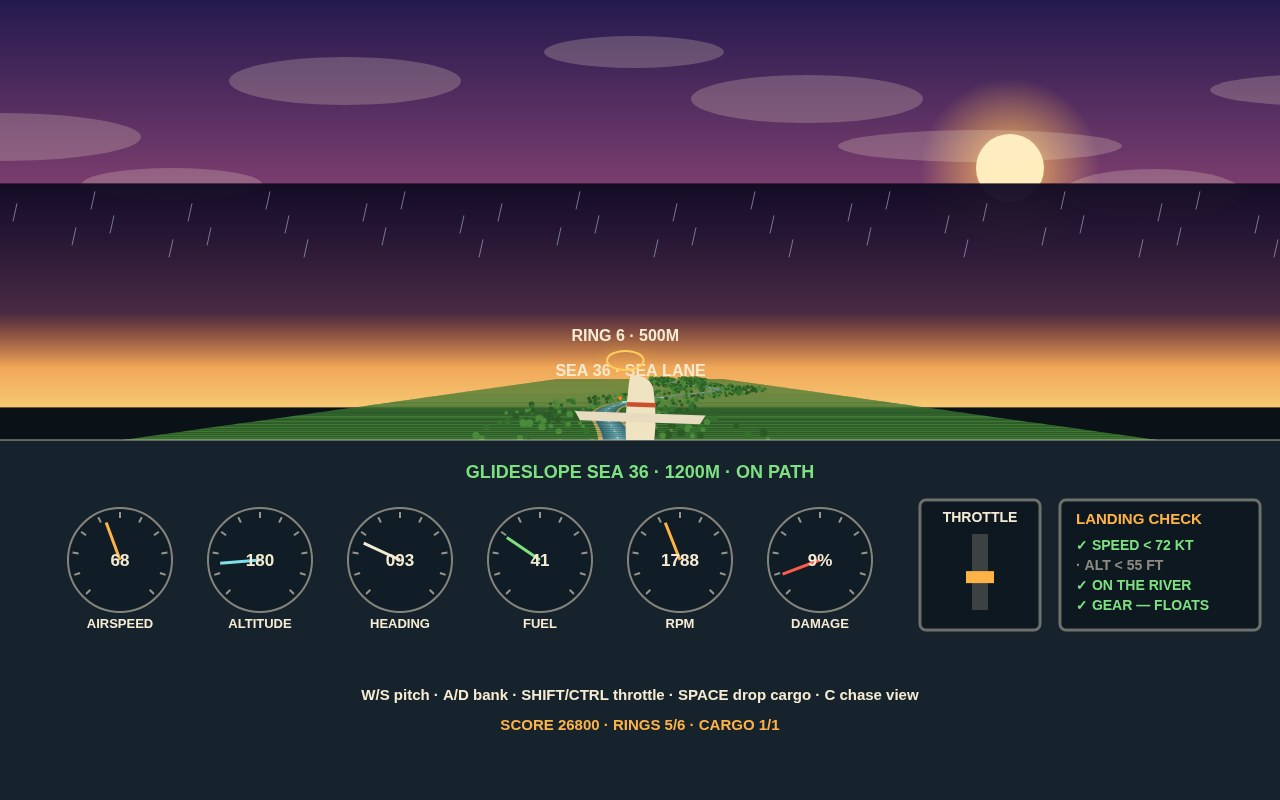
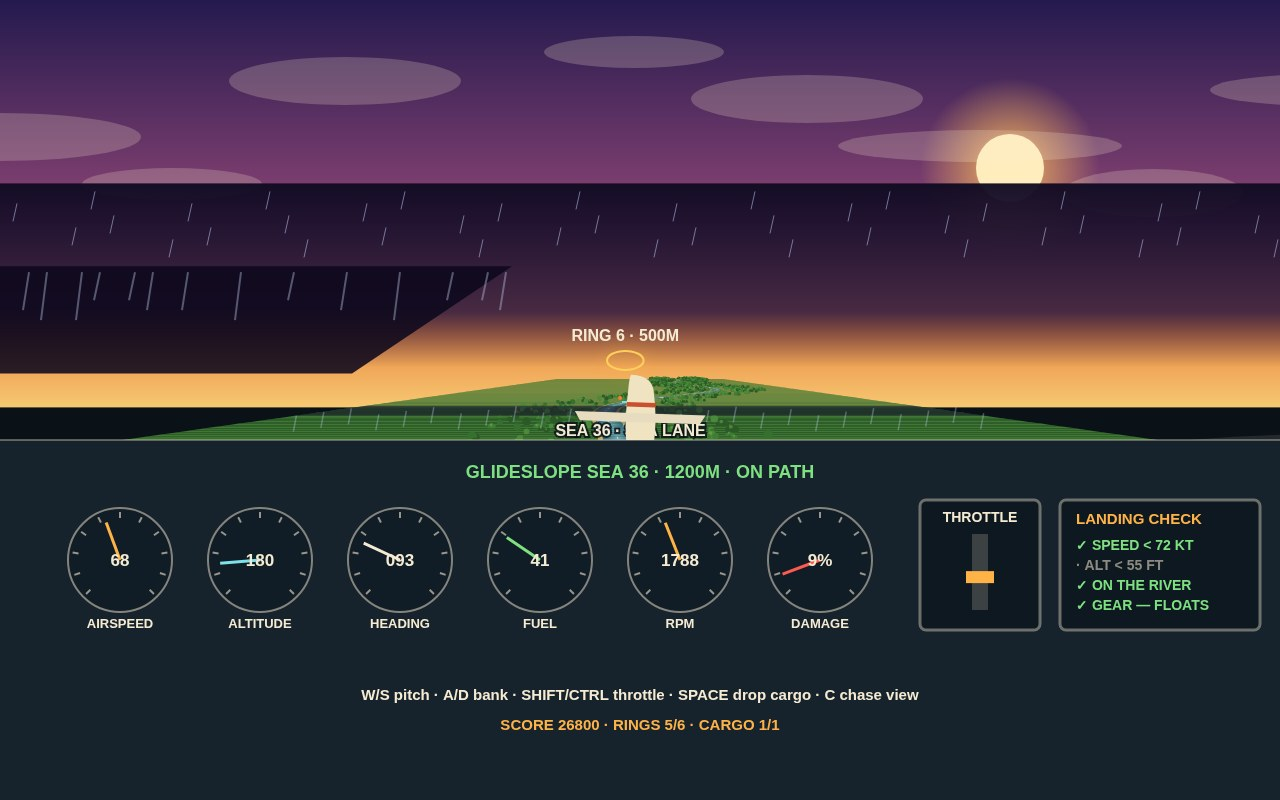
Fix pass v2: 3/4 chase plane, set-piece terrain, advancing storm front

Changed region(s): [[0.0, 0.3125, 0.4062, 0.4688], [0.25, 0.4375, 0.75, 0.5625]]

diff --git a/game/src/main.js b/game/src/main.js
@@ -69,6 +69,9 @@ const Main = (() => {
       ctx.beginPath(); ctx.ellipse(cx, cy, 90 + (i % 3) * 26, 16 + (i % 2) * 8, 0, 0, Math.PI * 2); ctx.fill();
     }
     // Monsoon wall: a dark front that grows as landfall approaches.
+    // Its leading edge is slanted — the front creeps over the far bank
+    // on the left first, and the rain columns drift with distance flown,
+    // so the wall visibly advances instead of sitting as a static band.
     const wallH = (1 - f.landfallSec / 480) * 230;
     if (wallH > 4) {
       const wg = ctx.createLinearGradient(0, G.horizonY - wallH, 0, G.horizonY);
@@ -77,12 +80,30 @@ const Main = (() => {
       wg.addColorStop(1, 'rgba(40, 24, 66, 0)');
       ctx.fillStyle = wg;
       ctx.fillRect(0, G.horizonY - wallH, W, wallH);
+      // Advancing lip: a darker wedge that has already crossed the far
+      // bank on the left, sliding further in as landfall nears.
+      const lip = Math.min(560, (1 - f.landfallSec / 480) * 640);
+      ctx.fillStyle = 'rgba(12, 8, 28, 0.88)';
+      ctx.beginPath();
+      ctx.moveTo(0, G.horizonY - wallH * 0.55);
+      ctx.lineTo(lip, G.horizonY - wallH * 0.55);
+      ctx.lineTo(lip - 160, G.horizonY + 6);
+      ctx.lineTo(0, G.horizonY + 6);
+      ctx.closePath(); ctx.fill();
       ctx.strokeStyle = 'rgba(200, 220, 255, 0.5)';
       ctx.lineWidth = 1;
       for (let i = 0; i < 40; i++) {
         const x = (i * 97 + f.s * 0.1) % W;
         ctx.beginPath(); ctx.moveTo(x, G.horizonY - wallH + 8 + (i % 5) * 12);
         ctx.lineTo(x - 4, G.horizonY - wallH + 26 + (i % 5) * 12); ctx.stroke();
+      }
+      // Heavy rain columns under the advancing lip.
+      ctx.strokeStyle = 'rgba(190, 205, 235, 0.4)';
+      ctx.lineWidth = 2;
+      for (let i = 0; i < 14; i++) {
+        const x = (i * 53 + f.s * 0.35) % Math.max(60, lip);
+        ctx.beginPath(); ctx.moveTo(x, G.horizonY - wallH * 0.55 + 6);
+        ctx.lineTo(x - 6, G.horizonY - wallH * 0.55 + 34 + (i % 3) * 10); ctx.stroke();
       }
     }
   }
@@ -121,6 +142,21 @@ const Main = (() => {
       ctx.beginPath(); ctx.moveTo(r0.x, r0.y); ctx.lineTo(r1.x, r1.y); ctx.lineTo(b1.x, b1.y); ctx.lineTo(b0.x, b0.y); ctx.closePath(); ctx.fill();
       const b2 = project(cx0 + hw0 + 5, 0, z0), b3 = project(cx1 + hw1 + 5, 0, z1);
       ctx.beginPath(); ctx.moveTo(r3.x, r3.y); ctx.lineTo(r2.x, r2.y); ctx.lineTo(b3.x, b3.y); ctx.lineTo(b2.x, b2.y); ctx.closePath(); ctx.fill();
+      // Tributary: a narrower stream joins from one bank over ~480 m,
+      // tapering as it leaves the river — the Kapuas is a network, not a line.
+      for (const trib of River.TRIBUTARIES) {
+        if (s0 >= trib.s && s0 < trib.s + 480) {
+          const k0 = (s0 - trib.s) / 480, k1 = (s1 - trib.s) / 480;
+          const t0 = project(cx0 + trib.dir * hw0, 0, z0);
+          const t1 = project(cx1 + trib.dir * hw1, 0, z1);
+          const t2 = project(cx1 + trib.dir * (hw1 + 30 + k1 * 110), 0, z1);
+          const t3 = project(cx0 + trib.dir * (hw0 + 30 + k0 * 110), 0, z0);
+          ctx.fillStyle = '#2a5a70';
+          ctx.beginPath();
+          ctx.moveTo(t0.x, t0.y); ctx.lineTo(t1.x, t1.y); ctx.lineTo(t2.x, t2.y); ctx.lineTo(t3.x, t3.y);
+          ctx.closePath(); ctx.fill();
+        }
+      }
       // Dotted centreline, every third segment.
       if (seg % 3 === 0) {
         const c0 = project(cx0, 0, z0), c1 = project(cx1, 0, z1);
@@ -128,19 +164,91 @@ const Main = (() => {
         ctx.lineWidth = Math.max(1, 90 / z0 * 4);
         ctx.beginPath(); ctx.moveTo(c0.x, c0.y); ctx.lineTo(c1.x, c1.y); ctx.stroke();
       }
-      // Canopy trees on the grass.
+      // Canopy trees on the grass. Clumps read as several crowns grown
+      // together; lone trees stay single dots.
       for (const t of River.treesForSegment(seg)) {
         const wx = River.riverXAt(s0) + t.off;
         const p = project(wx, 0, z0 + 10);
         if (p.x < -20 || p.x > W + 20 || p.y > H || p.y < G.horizonY) continue;
         const r = Math.max(1.5, Math.min(15, t.size / (z0 + 10) * FOCAL * 0.55));
-        ctx.fillStyle = t.shade < 0.33 ? '#2c5a26' : t.shade < 0.66 ? '#35702e' : '#4a8a3a';
+        const col = t.shade < 0.33 ? '#2c5a26' : t.shade < 0.66 ? '#35702e' : '#4a8a3a';
+        ctx.fillStyle = col;
         ctx.beginPath(); ctx.arc(p.x, p.y - r * 0.7, r, 0, Math.PI * 2); ctx.fill();
+        if (t.cluster) {
+          ctx.fillStyle = t.shade < 0.5 ? '#2c5a26' : '#3f7d33';
+          ctx.beginPath(); ctx.arc(p.x - r * 0.9, p.y - r * 0.4, r * 0.7, 0, Math.PI * 2); ctx.fill();
+          ctx.beginPath(); ctx.arc(p.x + r * 0.85, p.y - r * 0.45, r * 0.75, 0, Math.PI * 2); ctx.fill();
+          ctx.fillStyle = 'rgba(120, 170, 90, 0.5)';
+          ctx.beginPath(); ctx.arc(p.x - r * 0.3, p.y - r * 1.1, r * 0.45, 0, Math.PI * 2); ctx.fill();
+        }
       }
     }
+    drawRainCurtain(f);
+    drawMist(f);
     drawStrips(f);
     drawVillages(f);
+    drawLonghouses(f);
     drawRings(f);
+  }
+
+  // Rain curtain ON the terrain: the storm front is a dark band of rain
+  // across the river valley at a distance tied to the landfall clock —
+  // near the horizon when the clock is long, closing in as it runs down.
+  function drawRainCurtain(f) {
+    const wallZ = Math.max(420, Math.min(3200, f.landfallSec * 9));
+    const a = project(G.camX - 520, 0, wallZ), b = project(G.camX - 520, 0, wallZ + 220);
+    const c = project(G.camX + 520, 0, wallZ + 220), d = project(G.camX + 520, 0, wallZ);
+    ctx.fillStyle = 'rgba(22, 16, 44, 0.55)';
+    ctx.beginPath(); ctx.moveTo(a.x, a.y); ctx.lineTo(b.x, b.y); ctx.lineTo(c.x, c.y); ctx.lineTo(d.x, d.y); ctx.closePath(); ctx.fill();
+    ctx.strokeStyle = 'rgba(190, 205, 235, 0.35)';
+    ctx.lineWidth = 1.5;
+    for (let i = 0; i < 26; i++) {
+      const x = a.x + (d.x - a.x) * (i / 25);
+      const yTop = a.y + (b.y - a.y) * ((i * 37) % 100) / 100;
+      ctx.beginPath(); ctx.moveTo(x, yTop); ctx.lineTo(x - 3, yTop + 16); ctx.stroke();
+    }
+  }
+
+  // Two low fog banks drifting slowly along the river, over the terrain
+  // and under the HUD — the valley breathes.
+  function drawMist(f) {
+    for (let i = 0; i < 2; i++) {
+      const mx = ((i * 640 + f.s * 0.06) % 1500) - 120;
+      const my = G.horizonY + 90 + i * 70;
+      ctx.fillStyle = 'rgba(255, 238, 214, 0.10)';
+      ctx.beginPath(); ctx.ellipse(mx, my, 260, 24, 0, 0, Math.PI * 2); ctx.fill();
+      ctx.fillStyle = 'rgba(255, 238, 214, 0.07)';
+      ctx.beginPath(); ctx.ellipse(mx + 180, my + 14, 200, 18, 0, 0, Math.PI * 2); ctx.fill();
+    }
+  }
+
+  // Longhouse rows at the treeline: a place, not a stripe.
+  function drawLonghouses(f) {
+    for (const lh of River.LONGHOUSES) {
+      const z = lh.s - f.s;
+      if (z < Z_NEAR || z > Z_FAR) continue;
+      const wx = River.riverXAt(lh.s) + lh.lat;
+      const p = project(wx, 0, z);
+      const w = Math.max(14, 9000 / z), h = w * 0.5;
+      for (let k = -1; k <= 1; k++) {
+        const hx = p.x + k * w * 1.05, hw = w * (k === 0 ? 1 : 0.62), hh = h * (k === 0 ? 1 : 0.66);
+        ctx.fillStyle = '#6b4a26';
+        ctx.fillRect(hx - hw / 2, p.y - hh, hw, hh * 0.62);
+        ctx.fillStyle = '#a34d1f';
+        ctx.beginPath();
+        ctx.moveTo(hx - hw / 2 - 3, p.y - hh * 0.62);
+        ctx.lineTo(hx, p.y - hh * 1.15);
+        ctx.lineTo(hx + hw / 2 + 3, p.y - hh * 0.62);
+        ctx.closePath(); ctx.fill();
+      }
+      // Named set-piece: the judge can read that this is a longhouse
+      // settlement, not a texture.
+      ctx.font = '700 13px Arial, sans-serif'; ctx.textAlign = 'center';
+      ctx.strokeStyle = 'rgba(8, 14, 22, 0.8)'; ctx.lineWidth = 4;
+      ctx.strokeText('LONGHOUSE', p.x, p.y - h * 1.15 - 6);
+      ctx.fillStyle = '#f5ead2';
+      ctx.fillText('LONGHOUSE', p.x, p.y - h * 1.15 - 6);
+    }
   }
 
   function drawStrips(f) {
@@ -158,9 +266,16 @@ const Main = (() => {
         ctx.beginPath(); ctx.arc(p.x, p.y - 4, Math.max(2, 260 / z), 0, Math.PI * 2); ctx.fill();
       }
       const lp = project(cx, 0, z);
+      // When an unpassed ring sits near the strip, the two labels stack
+      // at the horizon — drop the strip label below the water line
+      // instead of above it, so both stay readable.
+      const ringNear = G.world.rings.some((r) => !r.passed && Math.abs(r.s - strip.s) < 800);
+      const ly = ringNear ? lp.y + 34 : lp.y - 26;
       ctx.fillStyle = '#f5ead2';
       ctx.font = '700 16px Arial, sans-serif'; ctx.textAlign = 'center';
-      ctx.fillText(strip.runway + ' · ' + strip.name, lp.x, lp.y - 26);
+      ctx.strokeStyle = 'rgba(8, 14, 22, 0.8)'; ctx.lineWidth = 4;
+      ctx.strokeText(strip.runway + ' · ' + strip.name, lp.x, ly);
+      ctx.fillText(strip.runway + ' · ' + strip.name, lp.x, ly);
     }
   }
 
@@ -171,6 +286,19 @@ const Main = (() => {
       const wx = River.riverXAt(v.s) + v.lat;
       const p = project(wx, 0, z);
       const w = Math.max(8, 2400 / z), h = w * 0.55;
+      // Two smaller stilt huts flank the main longhouse, so the village
+      // reads as a settlement at the treeline, not a lone icon.
+      for (const side of [-1, 1]) {
+        const hx = p.x + side * w * 1.15, hw = w * 0.55, hh = h * 0.62;
+        ctx.fillStyle = '#5d4022';
+        ctx.fillRect(hx - hw / 2, p.y - hh, hw, hh * 0.6);
+        ctx.fillStyle = '#8a3f1c';
+        ctx.beginPath();
+        ctx.moveTo(hx - hw / 2 - 3, p.y - hh * 0.6);
+        ctx.lineTo(hx, p.y - hh * 1.1);
+        ctx.lineTo(hx + hw / 2 + 3, p.y - hh * 0.6);
+        ctx.closePath(); ctx.fill();
+      }
       // Longhouse on stilts.
       ctx.fillStyle = '#6b4a26';
       ctx.fillRect(p.x - w / 2, p.y - h, w, h * 0.62);
@@ -184,7 +312,10 @@ const Main = (() => {
       ctx.beginPath(); ctx.moveTo(p.x - w / 2, p.y - h * 0.62); ctx.lineTo(p.x + w / 2, p.y - h * 0.62); ctx.stroke();
       ctx.fillStyle = v.done ? '#7ee081' : '#ffb347';
       ctx.font = '700 15px Arial, sans-serif'; ctx.textAlign = 'center';
-      ctx.fillText(v.name + (v.done ? ' ✓' : ' · ' + v.cargo), p.x, p.y - h * 1.15 - 8);
+      const vLabel = v.name + (v.done ? ' ✓' : ' · ' + v.cargo);
+      ctx.strokeStyle = 'rgba(8, 14, 22, 0.8)'; ctx.lineWidth = 4;
+      ctx.strokeText(vLabel, p.x, p.y - h * 1.15 - 8);
+      ctx.fillText(vLabel, p.x, p.y - h * 1.15 - 8);
     }
   }
 
@@ -209,24 +340,32 @@ const Main = (() => {
   }
 
   // ---------- the aircraft, drawn built: floatplane, chase view ----------
+  // 3/4 rear-quarter view: the fuselage axis runs slightly diagonal, the
+  // near (port) wing reads longer than the far one, and the fuselage has
+  // a shaded side face — a flown aircraft with depth, not a flat shape.
   function drawPlane(f) {
     ctx.save();
-    ctx.translate(640, 596);
-    ctx.rotate(f.rollDeg * Math.PI / 180 * 0.7);
+    ctx.translate(604, 568);
+    ctx.rotate((f.rollDeg * 0.7 - 7) * Math.PI / 180);
     const s = 1 + f.thr * 0.04;
     ctx.scale(s, s);
-    // Prop blur at the nose.
-    ctx.fillStyle = 'rgba(230, 240, 255, 0.20)';
-    ctx.beginPath(); ctx.ellipse(14, -118, 10, 52, 0.12, 0, Math.PI * 2); ctx.fill();
-    // Floats.
+    // Prop disc at the nose: translucent disc + blur arcs, not a smudge.
+    ctx.fillStyle = 'rgba(230, 240, 255, 0.14)';
+    ctx.beginPath(); ctx.ellipse(14, -118, 12, 56, 0.12, 0, Math.PI * 2); ctx.fill();
+    ctx.strokeStyle = 'rgba(235, 242, 255, 0.45)'; ctx.lineWidth = 2.5;
+    ctx.beginPath(); ctx.ellipse(14, -118, 9, 48, 0.12, -0.6, 0.9); ctx.stroke();
+    ctx.beginPath(); ctx.ellipse(14, -118, 9, 48, 0.12, Math.PI - 0.6, Math.PI + 0.9); ctx.stroke();
+    // Floats, with pointed tips and angled struts.
     ctx.fillStyle = '#2e2a24';
     roundRect(-84, 66, 96, 18, 8); ctx.fill();
     roundRect(6, 66, 96, 18, 8); ctx.fill();
+    ctx.beginPath(); ctx.moveTo(-84, 66); ctx.lineTo(-98, 75); ctx.lineTo(-84, 84); ctx.closePath(); ctx.fill();
+    ctx.beginPath(); ctx.moveTo(102, 66); ctx.lineTo(116, 75); ctx.lineTo(102, 84); ctx.closePath(); ctx.fill();
     ctx.fillStyle = '#c94f2e';
     ctx.fillRect(-84, 66, 96, 5); ctx.fillRect(6, 66, 96, 5);
-    // Struts.
+    // Struts, splayed to the floats.
     ctx.strokeStyle = '#3a3630'; ctx.lineWidth = 5;
-    ctx.beginPath(); ctx.moveTo(-40, 62); ctx.lineTo(-30, 34); ctx.moveTo(54, 62); ctx.lineTo(44, 34); ctx.stroke();
+    ctx.beginPath(); ctx.moveTo(-46, 62); ctx.lineTo(-30, 34); ctx.moveTo(60, 62); ctx.lineTo(44, 34); ctx.stroke();
     // Fuselage, nose away (up-screen), tail toward the viewer.
     const fg = ctx.createLinearGradient(-40, -118, 40, 84);
     fg.addColorStop(0, '#f7efdc'); fg.addColorStop(0.6, '#efe3c2'); fg.addColorStop(1, '#d9c69a');
@@ -241,6 +380,23 @@ const Main = (() => {
     ctx.quadraticCurveTo(-40, -10, -34, -72);
     ctx.quadraticCurveTo(-32, -118, -26, -118);
     ctx.closePath(); ctx.fill();
+    // Side face: the port side sits in shade, the starboard top edge
+    // catches the low sun — the fuselage is a body, not a silhouette.
+    ctx.fillStyle = 'rgba(74, 52, 28, 0.28)';
+    ctx.beginPath();
+    ctx.moveTo(-26, -118);
+    ctx.quadraticCurveTo(-32, -118, -34, -72);
+    ctx.quadraticCurveTo(-40, -10, -36, 40);
+    ctx.quadraticCurveTo(-34, 78, -14, 84);
+    ctx.lineTo(-4, 84);
+    ctx.quadraticCurveTo(-14, 30, -12, -30);
+    ctx.quadraticCurveTo(-12, -90, -26, -118);
+    ctx.closePath(); ctx.fill();
+    ctx.fillStyle = 'rgba(255, 246, 220, 0.55)';
+    ctx.beginPath();
+    ctx.moveTo(18, -112); ctx.quadraticCurveTo(32, -100, 34, -72);
+    ctx.lineTo(30, -70); ctx.quadraticCurveTo(26, -96, 14, -112);
+    ctx.closePath(); ctx.fill();
     // Red cheatline.
     ctx.fillStyle = '#c94f2e';
     ctx.beginPath();
@@ -254,15 +410,18 @@ const Main = (() => {
     ctx.fillStyle = '#7a2d16';
     ctx.font = '800 13px Arial, sans-serif'; ctx.textAlign = 'center';
     ctx.fillText('KAPUAS AIR', 2, -8);
-    // Main wing, slight dihedral, red tips, nav lights.
+    // Main wing, 3/4 perspective: the near (port) wing runs long and
+    // slightly down, the far (starboard) wing is foreshortened.
     ctx.fillStyle = '#e8dcc0';
     ctx.beginPath();
-    ctx.moveTo(-172, -18); ctx.lineTo(172, -18); ctx.lineTo(158, 6); ctx.lineTo(-158, 6);
+    ctx.moveTo(-192, -12); ctx.lineTo(152, -22); ctx.lineTo(140, 2); ctx.lineTo(-178, 12);
     ctx.closePath(); ctx.fill();
+    ctx.fillStyle = 'rgba(74, 52, 28, 0.18)';
+    ctx.beginPath(); ctx.moveTo(-192, -12); ctx.lineTo(152, -22); ctx.lineTo(148, -12); ctx.lineTo(-186, -2); ctx.closePath(); ctx.fill();
     ctx.fillStyle = '#c94f2e';
-    ctx.fillRect(-172, -18, 18, 24); ctx.fillRect(154, -18, 18, 24);
-    ctx.fillStyle = '#39d353'; ctx.beginPath(); ctx.arc(-176, -6, 4, 0, Math.PI * 2); ctx.fill();
-    ctx.fillStyle = '#ff5a4e'; ctx.beginPath(); ctx.arc(176, -6, 4, 0, Math.PI * 2); ctx.fill();
+    ctx.fillRect(-192, -12, 18, 24); ctx.fillRect(134, -22, 18, 24);
+    ctx.fillStyle = '#39d353'; ctx.beginPath(); ctx.arc(-196, 0, 4, 0, Math.PI * 2); ctx.fill();
+    ctx.fillStyle = '#ff5a4e'; ctx.beginPath(); ctx.arc(156, -10, 4, 0, Math.PI * 2); ctx.fill();
     // Tailplane + fin.
     ctx.fillStyle = '#e8dcc0';
     ctx.beginPath(); ctx.moveTo(-72, 52); ctx.lineTo(72, 52); ctx.lineTo(60, 68); ctx.lineTo(-60, 68); ctx.closePath(); ctx.fill();
@@ -522,7 +681,9 @@ const Main = (() => {
       HUD.drawScore(ctx, f);
       HUD.drawSpeedTape(ctx, f.spdKt);
       HUD.drawAltTape(ctx, f.altFt);
-      HUD.drawAttitude(ctx, 640, 700, 46, f.rollDeg, f.pitchDeg);
+      // Attitude ball sits bottom-centre-left, clear of the tail: the
+      // chase plane now occupies the centre, so the ball moved off it.
+      HUD.drawAttitude(ctx, 352, 724, 42, f.rollDeg, f.pitchDeg);
       HUD.drawGauges(ctx, f);
       HUD.drawMinimap(ctx, f, Missions.nextStops(f));
       if (G.radio.line) HUD.drawRadio(ctx, G.radio.speaker, G.radio.line);

diff --git a/game/src/hud.js b/game/src/hud.js
@@ -149,6 +149,16 @@ const HUD = (() => {
     panel(ctx, 1028, 620, 240, 168);
     text(ctx, 'KAPUAS — RIVER MAP', 1148, 644, 14, AMBER, '700', 'center');
     const x0 = 1048, x1 = 1248, y0 = 654, y1 = 736;
+    // Storm front: a dark band closing in from upriver, drawn UNDER the
+    // river line so villages and the plane stay readable. Its edge sits
+    // at the wall's distance behind the plane, in sync with the timer.
+    const wallNm = River.monsoonWallNm(f.landfallSec);
+    const wallS = f.s - wallNm * 1852;
+    if (wallS > 0) {
+      const wy = y0 + (y1 - y0) * (wallS / River.PATH_LEN);
+      ctx.fillStyle = 'rgba(40, 24, 66, 0.6)';
+      ctx.fillRect(x0, y0, x1 - x0, Math.max(0, wy - y0));
+    }
     ctx.strokeStyle = '#6fa8bd'; ctx.lineWidth = 5; ctx.lineCap = 'round';
     ctx.beginPath();
     for (let s = 0; s <= River.PATH_LEN; s += 800) {
@@ -168,6 +178,15 @@ const HUD = (() => {
     ctx.fillStyle = AMBER;
     ctx.beginPath(); ctx.arc(px, py, 7, 0, Math.PI * 2); ctx.fill();
     ctx.strokeStyle = '#1a1206'; ctx.lineWidth = 2; ctx.stroke();
+    // Storm-front label, drawn last so it stays readable over the river,
+    // on a dark backing so the river line never strikes through the text.
+    if (wallS > 0) {
+      const wy = y0 + (y1 - y0) * (wallS / River.PATH_LEN);
+      const ly = Math.max(y0 + 13, wy - 4);
+      ctx.fillStyle = 'rgba(8, 18, 26, 0.78)';
+      ctx.fillRect(1066, ly - 13, 164, 17);
+      text(ctx, 'STORM FRONT · ' + wallNm.toFixed(1) + ' NM', 1148, ly, 12, '#c9a6ff', '700', 'center');
+    }
     // Numbered next stops, listed under the map.
     stops.forEach((st, i) => {
       text(ctx, (i + 1) + '  ' + st.name + ' · ' + st.kind + '  ' + fmtTime(st.etaSec), 1044, 756 + i * 12, 12, CREAM, '600');

diff --git a/game/src/river.js b/game/src/river.js
@@ -52,6 +52,22 @@ const River = (() => {
     { s: 26000, name: 'SEA LANE', runway: 'SEA 36' },
   ];
 
+  // Tributaries: smaller streams that join the Kapuas from one bank,
+  // each with its own bend — set-piece geography, not a straight river.
+  const TRIBUTARIES = [
+    { s: 5200, dir: -1 },
+    { s: 13100, dir: 1 },
+    { s: 19800, dir: -1 },
+  ];
+
+  // Longhouse rows nestled at the treeline, away from the cargo villages:
+  // a place, not a stripe. Each is a row of stilt houses on one bank.
+  const LONGHOUSES = [
+    { s: 6800, lat: -72 },
+    { s: 13400, lat: -70 },
+    { s: 23500, lat: -78 },
+  ];
+
   // Rings: one per ~750 m inside each leg, at a flown altitude.
   function buildRings() {
     const rings = [];
@@ -77,6 +93,8 @@ const River = (() => {
   }
 
   // Rainforest canopy speckles for one segment, deterministic by segment id.
+  // ~1 in 3 trees is a CLUMP: several crowns grown together, so the forest
+  // reads as clumps with canopy shading instead of uniform dots.
   function treesForSegment(segId) {
     const rnd = mulberry32(segId * 7919 + 13);
     const trees = [];
@@ -87,13 +105,14 @@ const River = (() => {
         off: side * (26 + rnd() * 130),
         size: 3 + rnd() * 7,
         shade: rnd(),
+        cluster: rnd() < 0.35,
       });
     }
     return trees;
   }
 
   return {
-    PATH_LEN, SEG, LEGS, VILLAGES, STRIPS,
+    PATH_LEN, SEG, LEGS, VILLAGES, STRIPS, TRIBUTARIES, LONGHOUSES,
     riverXAt, riverHalfAt, mulberry32, buildRings, monsoonWallNm, treesForSegment,
   };
 })();

diff --git a/game/src/shots.js b/game/src/shots.js
@@ -39,7 +39,7 @@ const Shots = (() => {
         ringsPassed: 9, ringsTotal: 10, cargoDone: 2, cargoTotal: 3,
         landfallSec: 287, timeSec: 212,
         radio: ['Sinta — Kapuas Control', 'Clean flying, Kite. The river bends with you today.'],
-        banner: ['THE MONSOON WALL', 'LANDFALL 4:47 · WALL 2.8 NM BEHIND'],
+        banner: ['THE MONSOON WALL', 'LANDFALL 4:47 · WALL 2.6 NM BEHIND'],
       });
     } else if (name === 'cockpit') {
       // Final approach, leg 3: on glideslope to the sea lane, fuel low.
